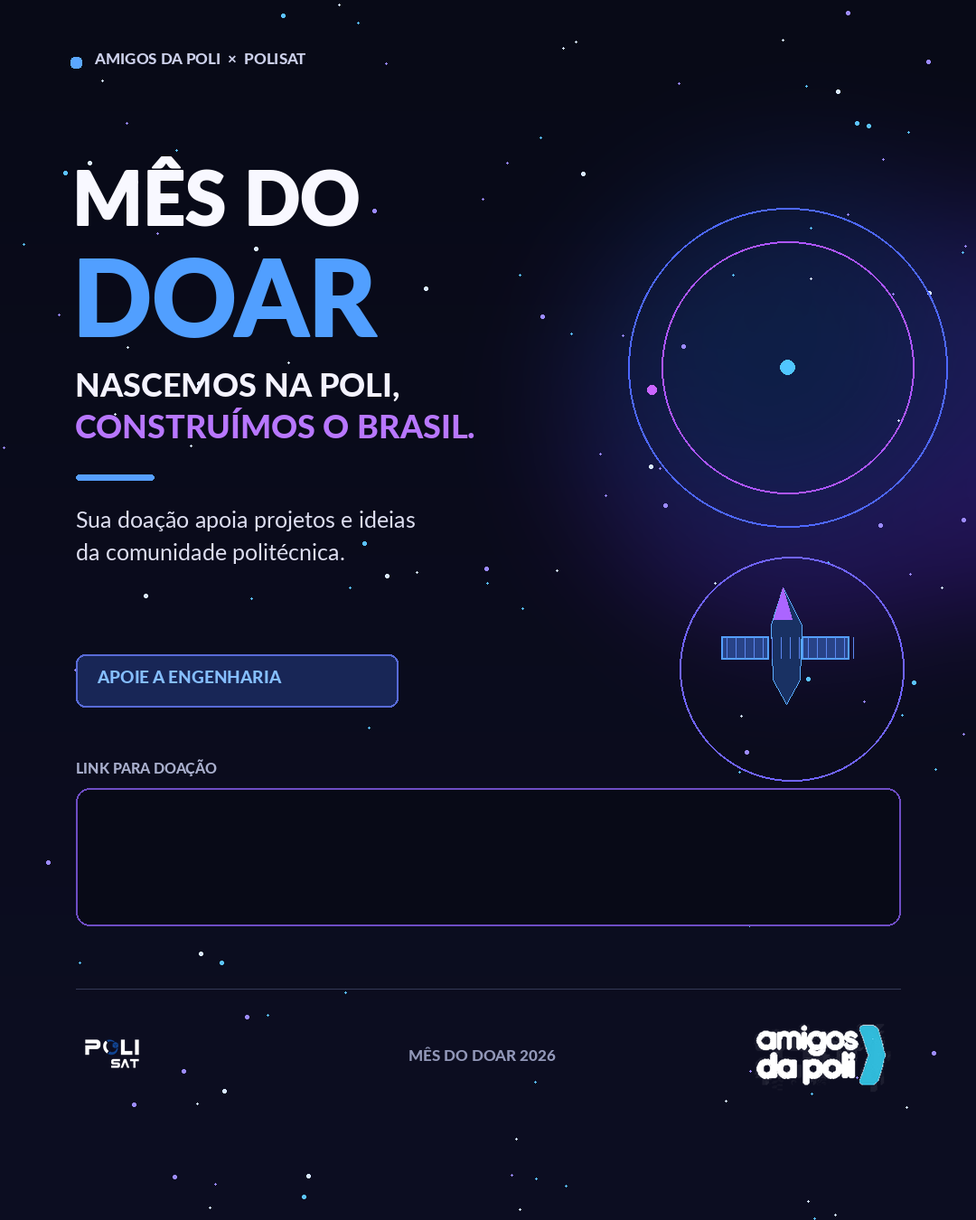
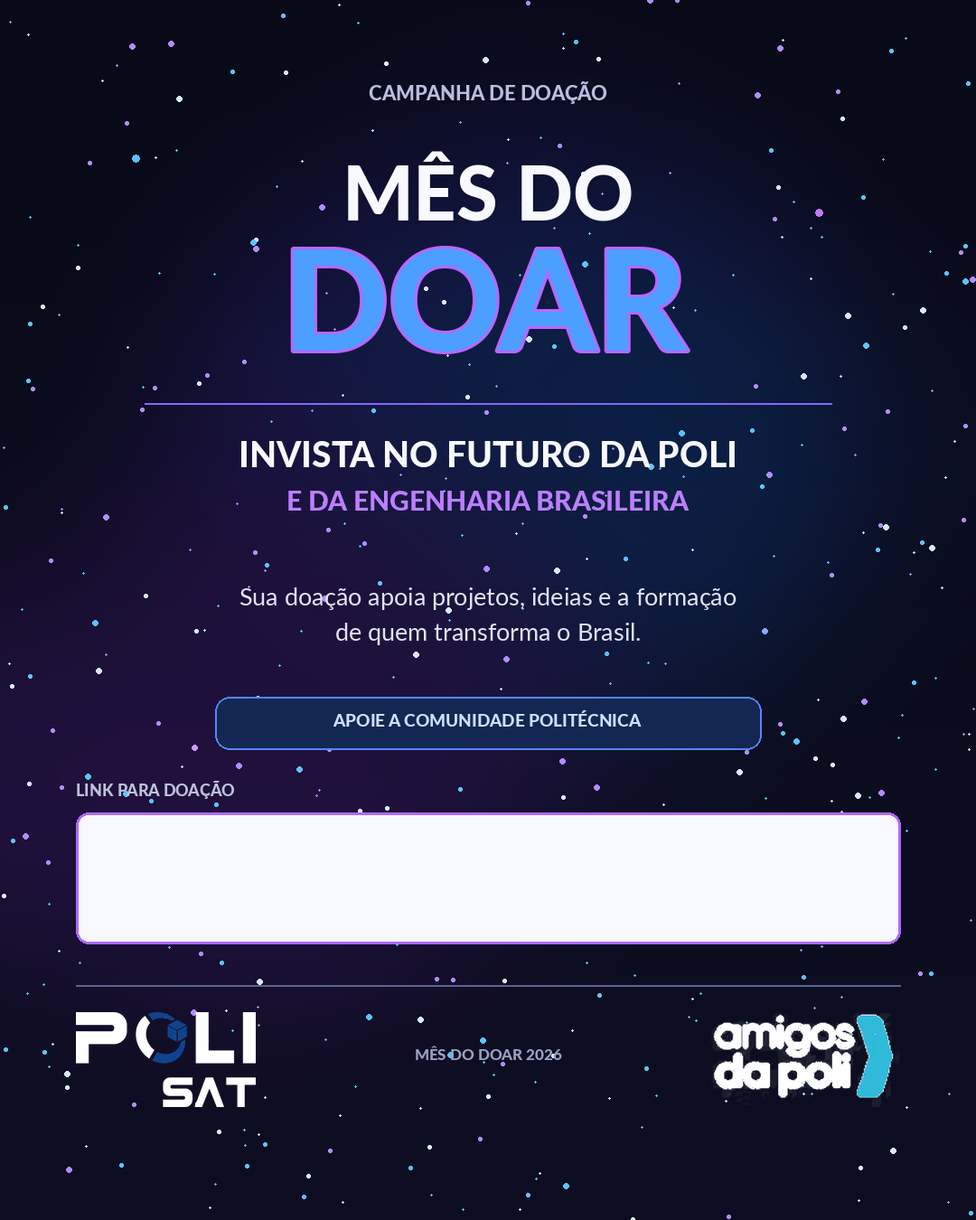
refatorando

diff --git a/index.html b/index.html
@@ -18,6 +18,20 @@
     .actions{flex-wrap:wrap}.download-disabled{opacity:.4;pointer-events:none}.edit-button{background:#171529;border:1px solid #5d4e91;color:#d9caff}.editor{width:min(1120px,96vw);max-width:none;max-height:94vh;padding:0;border:1px solid #403866;border-radius:18px;background:#0c0d17;color:#f4f4ff;box-shadow:0 24px 100px #000b}.editor::backdrop{background:#02030bcc;backdrop-filter:blur(5px)}.editor-head{display:flex;justify-content:space-between;align-items:center;padding:17px 21px;border-bottom:1px solid #29263f}.editor-head h2{font-size:16px;margin:0}.editor-head p{font-size:11px;color:#969bb5;margin:4px 0 0}.editor-close{border:1px solid #35334f;background:#171827;border-radius:8px;padding:7px 11px}.editor-grid{display:grid;grid-template-columns:minmax(0,1fr) 300px;gap:18px;padding:18px;max-height:calc(94vh - 70px);overflow:auto}.editor-stage{display:grid;place-items:center;align-content:center;background:#06070d;border:1px solid #25243a;border-radius:12px;padding:14px;min-height:280px}.editor-canvas{width:min(100%,540px);height:auto;aspect-ratio:4/5;border:1px solid #27263b;touch-action:none;cursor:crosshair}.editor-help{color:#8f94ab;font-size:10px;text-align:center;margin:9px 0 0}.editor-tools{display:flex;flex-direction:column;gap:13px}.tool-block{background:#121320;border:1px solid #29283e;border-radius:11px;padding:12px}.tool-title{font-size:11px;font-weight:750;color:#d9d3f6;margin-bottom:9px}.tool-row{display:flex;align-items:center;gap:8px}.tool-row input[type=range]{width:100%;accent-color:#8960ed}.tool-row input[type=color]{width:32px;height:28px;padding:0;border:0;background:transparent}.tool-row input[type=file]{width:100%;font-size:10px;color:#a9aec4}.tool-label{display:flex;justify-content:space-between;color:#9da2b8;font-size:10px;margin:8px 0 2px}.tool-button{border:1px solid #4a4475;background:#1c1a30;color:#e6e2fb;border-radius:8px;padding:8px 10px;font-size:11px;font-weight:650}.tool-button.primary{background:linear-gradient(100deg,#286cc3,#7046bd);border-color:#7362c9}.tool-button:disabled{opacity:.42;cursor:not-allowed}.editor-tools textarea{width:100%;resize:vertical;min-height:58px;border:1px solid #36354e;background:#090a12;color:#f4f4ff;border-radius:8px;padding:8px;font-family:inherit;font-size:12px;line-height:1.4}.editor-bottom{display:flex;justify-content:space-between;gap:8px;margin-top:auto;padding-top:3px}.editor-message{min-height:14px;color:#a7a0cf;font-size:10px}.image-choice{font-size:10px;color:#9fa5bc;margin-top:6px;overflow-wrap:anywhere}
     @media(max-width:930px){.layout{grid-template-columns:1fr}.preview{position:static;max-width:520px;width:100%;justify-self:center}.intro{align-items:flex-start;flex-direction:column}.date-range{min-width:0}.top{margin-bottom:36px}}@media(max-width:560px){.shell{padding:21px 14px 36px}.top{align-items:flex-start}.top-right .pill:last-child{display:none}.stats{gap:8px}.stat{padding:12px}.stat-value{font-size:19px}.table th,.table td{padding:10px 11px}.table th:nth-child(3),.table td:nth-child(3){display:none}.post-name{font-size:12px}.art-wrap{padding:12px 24px 18px}}
     @media(max-width:800px){.editor-grid{grid-template-columns:1fr;max-height:calc(94vh - 65px)}.editor-tools{max-width:560px;width:100%;justify-self:center}.editor-canvas{width:min(100%,430px)}}
+    .editor-help strong{color:#d9caff}.editor-canvas{cursor:grab}.editor-canvas:active{cursor:grabbing}
+    /* Identidade da arte da campanha: espaço, órbitas e azul/violeta PoliSat. */
+    :root{--bg:#080914;--panel:#0c0d19;--panel2:#111329;--line:#29294a;--blue:#4ea2ff;--purple:#b36cff}
+    body{background-color:#080914;background-image:radial-gradient(circle at 8% 17%,#9bcaffb0 1px,transparent 1.5px),radial-gradient(circle at 39% 28%,#a984ffbd 1px,transparent 1.5px),radial-gradient(circle at 82% 15%,#c8d8ffb0 1px,transparent 1.5px),radial-gradient(circle at 71% 46%,#77aaff9c 1px,transparent 1.5px),radial-gradient(circle at 22% 65%,#9680ffad 1px,transparent 1.5px),radial-gradient(circle at 93% 74%,#d4e0ffad 1px,transparent 1.5px),radial-gradient(ellipse at 82% 1%,#17123e 0,transparent 39%)}
+    .mark{position:relative;overflow:hidden;border-radius:50%;background:radial-gradient(circle,#4ea2ff 0 3px,transparent 4px),transparent;border:1px solid #557cff;box-shadow:0 0 0 5px #a34cff22,0 8px 28px #5c76ff35;font-size:0}
+    .mark:before,.mark:after{content:"";position:absolute;border:1px solid #ae65ff;border-radius:50%;inset:6px}
+    .mark:after{border-color:#438fff;inset:-5px}
+    .brand-sub{letter-spacing:.025em}.brand-name{letter-spacing:.01em}
+    .pill,.date-range,.stat,.card{background:rgba(9,10,20,.94);border-color:#302d53}
+    .intro h1{background:linear-gradient(100deg,#f4f5ff 0 37%,#4a9dff 38% 63%,#b166ff 90%);-webkit-background-clip:text;background-clip:text;color:transparent}
+    .eyebrow{color:#b478ff}.stat{box-shadow:inset 0 1px #ffffff08}.card{box-shadow:0 18px 55px #0003}
+    .card-head{background:linear-gradient(90deg,#121328aa,transparent)}.row.active td:first-child{box-shadow:inset 2px 0 #4ea2ff}
+    .btn-primary{background:linear-gradient(110deg,#398ff0,#9157df);box-shadow:0 7px 18px #665cff30}
+    .approval{border-color:#343148;background:linear-gradient(110deg,#12172b,#191329)}
   </style>
 </head>
 <body>
@@ -55,7 +69,7 @@
   <dialog class="editor" id="editor-dialog">
     <div class="editor-head"><div><h2>Editar imagem</h2><p>As alterações ficam neste navegador; baixe o PNG para compartilhar a versão final com a equipe.</p></div><button class="editor-close" id="editor-close">Fechar</button></div>
     <div class="editor-grid">
-      <div><div class="editor-stage"><canvas class="editor-canvas" id="editor-canvas" width="1080" height="1350" aria-label="Prévia editável do post"></canvas></div><p class="editor-help">Arraste o texto no canvas para reposicioná-lo.</p></div>
+      <div><div class="editor-stage"><canvas class="editor-canvas" id="editor-canvas" width="1080" height="1350" aria-label="Prévia editável do post"></canvas></div><p class="editor-help">Arraste a imagem para reenquadrar. Selecione e arraste um texto para reposicioná-lo.</p></div>
       <div class="editor-tools">
         <section class="tool-block"><div class="tool-title">Imagem e enquadramento</div><input id="image-upload" type="file" accept="image/png,image/jpeg,image/webp"><div class="image-choice" id="image-choice">Arte original do post</div>
           <label class="tool-label" for="zoom-range"><span>Zoom / corte</span><span id="zoom-value">100%</span></label><div class="tool-row"><input id="zoom-range" type="range" min="100" max="170" value="100"></div>
@@ -74,26 +88,32 @@
     const posts=[];const start=new Date(2026,10,9),end=new Date(2026,11,1);const weekdays=['domingo','segunda-feira','terça-feira','quarta-feira','quinta-feira','sexta-feira','sábado'];const months=['janeiro','fevereiro','março','abril','maio','junho','julho','agosto','setembro','outubro','novembro','dezembro'];
     for(let d=new Date(start);d<=end;d.setDate(d.getDate()+1)){if(d.getDay()===0||d.getDay()===6)continue;posts.push(new Date(d))}
     let currentArtData=null,selectedHasImage=true;const body=document.querySelector('#rows');posts.forEach((d,i)=>{const date=String(d.getDate()).padStart(2,'0')+'/'+String(d.getMonth()+1).padStart(2,'0');const tr=document.createElement('tr');tr.className='row'+(i===0?' active':'');tr.innerHTML=`<td><span class="ordinal">${date}</span><br><span class="weekday">${weekdays[d.getDay()]}</span></td><td><div class="post-name">${i===0?'Mês do Doar — Nascemos na Poli':'Post da campanha Mês do Doar'}</div><div class="post-kind">${i===0?'Convite à doação':'Conteúdo a definir'}</div></td><td><span class="status">${i===0?'Exemplo':'A definir'}</span></td>`;tr.addEventListener('click',()=>{document.querySelectorAll('.row').forEach(x=>x.classList.remove('active'));tr.classList.add('active');document.querySelector('#selected-title').textContent=i===0?'Mês do Doar — Nascemos na Poli':'Post da campanha Mês do Doar';document.querySelector('#selected-date').textContent=`${weekdays[d.getDay()].replace(/^./,c=>c.toUpperCase())}, ${String(d.getDate()).padStart(2,'0')} de ${months[d.getMonth()]} de ${d.getFullYear()}`;const imageActions=i===0;selectedHasImage=imageActions;document.querySelector('#art').style.opacity=imageActions?'1':'.42';document.querySelector('#edit-open').disabled=!imageActions;document.querySelector('#copy').disabled=!imageActions;document.querySelector('#download').classList.toggle('download-disabled',!imageActions);document.querySelector('#download').setAttribute('aria-disabled',String(!imageActions));if(imageActions)showArt(currentArtData)});body.appendChild(tr)}
+    );
     document.querySelector('#stat-total').textContent=posts.length;
     const caption='Nascemos na Poli, construímos o Brasil. Sua doação apoia projetos e ideias da comunidade politécnica. Faça parte dessa construção. 💙💜\n\nDoe: https://doe.amigosdapoli.com.br/7coquetelderesultados';
     document.querySelector('#copy').addEventListener('click',async()=>{await navigator.clipboard.writeText(caption);document.querySelector('#copy').textContent='Legenda copiada ✓';setTimeout(()=>document.querySelector('#copy').textContent='Copiar legenda',1600)});
     const toast=(message)=>{const el=document.querySelector('#app-toast');el.textContent=message;el.classList.add('show');setTimeout(()=>el.classList.remove('show'),5000)};
     const DB_NAME='mes-doar-artes',STORE_NAME='imagens',ART_KEY='arte-2026-11-09';
-    function openArtDB(){return new Promise((resolve,reject)=>{const request=indexedDB.open(DB_NAME,1);request.onupgradeneeded=()=>request.result.createObjectStore(STORE_NAME);request.onsuccess=()=>resolve(request.result);request.onerror=()=>reject(request.error)})}
-    async function readSavedArt(){const db=await openArtDB();return new Promise((resolve,reject)=>{const request=db.transaction(STORE_NAME,'readonly').objectStore(STORE_NAME).get(ART_KEY);request.onsuccess=()=>resolve(request.result||null);request.onerror=()=>reject(request.error)})}
-    async function writeSavedArt(data){const db=await openArtDB();return new Promise((resolve,reject)=>{const transaction=db.transaction(STORE_NAME,'readwrite');transaction.objectStore(STORE_NAME).put(data,ART_KEY);transaction.oncomplete=()=>resolve();transaction.onerror=()=>reject(transaction.error)})}
+    function openArtDB(){return new Promise((resolve,reject)=>{if(!('indexedDB'in window)){reject(new Error('Armazenamento local indisponível'));return}const request=indexedDB.open(DB_NAME,1);request.onupgradeneeded=()=>{if(!request.result.objectStoreNames.contains(STORE_NAME))request.result.createObjectStore(STORE_NAME)};request.onsuccess=()=>resolve(request.result);request.onerror=()=>reject(request.error||new Error('Falha ao abrir armazenamento'));request.onblocked=()=>reject(new Error('Armazenamento local bloqueado'))})}
+    async function readSavedArt(){try{const db=await openArtDB();return await new Promise((resolve,reject)=>{const request=db.transaction(STORE_NAME,'readonly').objectStore(STORE_NAME).get(ART_KEY);request.onsuccess=()=>resolve(request.result||null);request.onerror=()=>reject(request.error||new Error('Falha ao carregar edição'));db.close()})}catch(error){console.warn('Não foi possível acessar a edição salva:',error);return null}}
+    async function writeSavedArt(data){const db=await openArtDB();return new Promise((resolve,reject)=>{const transaction=db.transaction(STORE_NAME,'readwrite');transaction.objectStore(STORE_NAME).put(data,ART_KEY);transaction.oncomplete=()=>{db.close();resolve()};transaction.onerror=()=>{db.close();reject(transaction.error||new Error('Falha ao salvar edição'))};transaction.onabort=()=>{db.close();reject(transaction.error||new Error('Salvamento cancelado'))}})}
     function showArt(data){currentArtData=data;if(!selectedHasImage)return;const src=data||'posts/exemplo-mes-doar.png';document.querySelector('#art').src=src;const link=document.querySelector('#download');link.href=src;link.download=data?'2026-11-09-segunda-feira-editado.png':'2026-11-09-segunda-feira.png'}
     async function loadSavedArt(){try{const saved=await readSavedArt();if(saved)showArt(saved)}catch{toast('Não foi possível carregar a arte salva neste navegador.')}}
-    const editor=document.querySelector('#editor-dialog'),canvas=document.querySelector('#editor-canvas'),ctx=canvas.getContext('2d'),editorMessage=document.querySelector('#editor-message');let editorImage=null,editorFileUrl='',textLayers=[],selectedLayer=-1,placingText=false,dragLayer=-1,dragOffset={x:0,y:0};
+    const editor=document.querySelector('#editor-dialog'),canvas=document.querySelector('#editor-canvas'),ctx=canvas.getContext('2d'),editorMessage=document.querySelector('#editor-message');let editorImage=null,editorFileUrl='',textLayers=[],selectedLayer=-1,placingText=false,dragLayer=-1,dragOffset={x:0,y:0},draggingImage=false,imageOffset={x:0,y:0},imageDragOrigin={x:0,y:0},imagePointerOrigin={x:0,y:0},editorNeedsBranding=false,adpLogo=null,polisatLogo=null;
     const originalImage='posts/exemplo-mes-doar.png';
+    const campaignLogoPaths=['logo_para_colocar_nas_imagens_geradas/logo_adp/logo-amigos-da-poli.svg','logo_para_colocar_nas_imagens_geradas/logo_polisat/logo_branco_svg.svg'];
     const sliderIds=['zoom','brightness','contrast','saturation'];
     function setEditorMessage(text){editorMessage.textContent=text}
     function loadEditorImage(src){return new Promise((resolve,reject)=>{const image=new Image();image.onload=()=>{editorImage=image;resolve()};image.onerror=reject;image.src=src})}
+    function loadCampaignLogo(src){return new Promise((resolve,reject)=>{const image=new Image();image.onload=()=>resolve(image);image.onerror=()=>reject(new Error('Falha ao carregar uma das logos'));image.src=src})}
+    async function loadCampaignLogos(){if(!adpLogo||!polisatLogo)[adpLogo,polisatLogo]=await Promise.all(campaignLogoPaths.map(loadCampaignLogo))}
+    function drawContainedLogo(image,x,y,maxWidth,maxHeight){const scale=Math.min(maxWidth/image.width,maxHeight/image.height);const width=image.width*scale,height=image.height*scale;ctx.drawImage(image,x+(maxWidth-width)/2,y+(maxHeight-height)/2,width,height)}
+    function drawCampaignBranding(){if(!adpLogo||!polisatLogo)throw new Error('As logos da campanha não foram carregadas.');ctx.save();ctx.fillStyle='#080914';ctx.fillRect(0,850,canvas.width,500);ctx.font='700 18px Arial';ctx.textAlign='left';ctx.textBaseline='top';ctx.fillStyle='#c2c6de';ctx.fillText('LINK PARA DOAÇÃO',84,866);ctx.fillStyle='#f8f8ff';ctx.fillRect(84,899,912,145);ctx.strokeStyle='#ae68ff';ctx.lineWidth=3;ctx.strokeRect(84,899,912,145);ctx.strokeStyle='#5c648d';ctx.lineWidth=2;ctx.beginPath();ctx.moveTo(84,1090);ctx.lineTo(996,1090);ctx.stroke();drawContainedLogo(polisatLogo,84,1120,245,105);drawContainedLogo(adpLogo,751,1120,245,105);ctx.font='700 17px Arial';ctx.textAlign='center';ctx.textBaseline='top';ctx.fillStyle='#9ba2c1';ctx.fillText('MÊS DO DOAR 2026',540,1159);ctx.restore()}
     function getEditorPoint(event){const rect=canvas.getBoundingClientRect();return{x:(event.clientX-rect.left)*canvas.width/rect.width,y:(event.clientY-rect.top)*canvas.height/rect.height}}
     function layerBounds(layer){ctx.font=`700 ${layer.size}px Arial`;const lines=layer.text.split('\n');const width=Math.max(...lines.map(line=>ctx.measureText(line).width),1);return{x:layer.x-width/2-14,y:layer.y-8,width:width+28,height:lines.length*layer.size*1.22+16}}
-    function redrawEditor(){if(!editorImage)return;const zoom=Number(document.querySelector('#zoom-range').value)/100;const scale=Math.max(canvas.width/editorImage.width,canvas.height/editorImage.height)*zoom;const width=editorImage.width*scale,height=editorImage.height*scale;ctx.clearRect(0,0,canvas.width,canvas.height);ctx.save();ctx.filter=`brightness(${document.querySelector('#brightness-range').value}%) contrast(${document.querySelector('#contrast-range').value}%) saturate(${document.querySelector('#saturation-range').value}%)`;ctx.drawImage(editorImage,(canvas.width-width)/2,(canvas.height-height)/2,width,height);ctx.restore();textLayers.forEach((layer,index)=>{ctx.save();ctx.font=`700 ${layer.size}px Arial`;ctx.textAlign='center';ctx.textBaseline='top';ctx.lineJoin='round';const lines=layer.text.split('\n');lines.forEach((line,lineIndex)=>{const y=layer.y+lineIndex*layer.size*1.22;ctx.strokeStyle='rgba(5,6,14,.9)';ctx.lineWidth=Math.max(3,layer.size*.12);ctx.strokeText(line,layer.x,y);ctx.fillStyle=layer.color;ctx.fillText(line,layer.x,y)});if(index===selectedLayer){const bounds=layerBounds(layer);ctx.setLineDash([8,6]);ctx.strokeStyle='#a88cff';ctx.lineWidth=3;ctx.strokeRect(bounds.x,bounds.y,bounds.width,bounds.height)}ctx.restore()})}
+    function redrawEditor(showSelection=true){if(!editorImage)return;const zoom=Number(document.querySelector('#zoom-range').value)/100;const scale=Math.max(canvas.width/editorImage.width,canvas.height/editorImage.height)*zoom;const width=editorImage.width*scale,height=editorImage.height*scale;ctx.clearRect(0,0,canvas.width,canvas.height);ctx.save();ctx.filter=`brightness(${document.querySelector('#brightness-range').value}%) contrast(${document.querySelector('#contrast-range').value}%) saturate(${document.querySelector('#saturation-range').value}%)`;ctx.drawImage(editorImage,(canvas.width-width)/2+imageOffset.x,(canvas.height-height)/2+imageOffset.y,width,height);ctx.restore();textLayers.forEach((layer,index)=>{ctx.save();ctx.font=`700 ${layer.size}px Arial`;ctx.textAlign='center';ctx.textBaseline='top';ctx.lineJoin='round';const lines=layer.text.split('\n');lines.forEach((line,lineIndex)=>{const y=layer.y+lineIndex*layer.size*1.22;ctx.strokeStyle='rgba(5,6,14,.9)';ctx.lineWidth=Math.max(3,layer.size*.12);ctx.strokeText(line,layer.x,y);ctx.fillStyle=layer.color;ctx.fillText(line,layer.x,y)});if(showSelection&&index===selectedLayer){const bounds=layerBounds(layer);ctx.setLineDash([8,6]);ctx.strokeStyle='#a88cff';ctx.lineWidth=3;ctx.strokeRect(bounds.x,bounds.y,bounds.width,bounds.height)}ctx.restore()});if(editorNeedsBranding)drawCampaignBranding()}
     function selectTextLayer(index){selectedLayer=index;const textarea=document.querySelector('#text-input'),remove=document.querySelector('#delete-text'),button=document.querySelector('#place-text');if(index>=0){const layer=textLayers[index];textarea.value=layer.text;document.querySelector('#font-size').value=layer.size;document.querySelector('#font-size-value').textContent=layer.size+' px';document.querySelector('#text-color').value=layer.color;remove.disabled=false;button.textContent='Atualizar texto'}else{textarea.value='';remove.disabled=true;button.textContent=placingText?'Clique na imagem…':'Colocar texto'}redrawEditor()}
-    document.querySelector('#edit-open').addEventListener('click',async()=>{if(!selectedHasImage)return;try{textLayers=[];placingText=false;selectTextLayer(-1);editorFileUrl='';for(const id of sliderIds){const input=document.querySelector('#'+id+'-range');input.value=100;document.querySelector('#'+id+'-value').textContent='100%'}const saved=await readSavedArt();const imageUrl=saved||originalImage;document.querySelector('#image-choice').textContent=saved?'Última edição salva':'Arte original do post';await loadEditorImage(saved?imageUrl:imageUrl+'?v='+Date.now());redrawEditor();setEditorMessage('Alterações ainda não salvas.');editor.showModal()}catch{toast('Não foi possível abrir a imagem no editor.')}});
+    document.querySelector('#edit-open').addEventListener('click',async()=>{if(!selectedHasImage)return;const button=document.querySelector('#edit-open');button.disabled=true;try{textLayers=[];placingText=false;draggingImage=false;imageOffset={x:0,y:0};editorNeedsBranding=false;selectTextLayer(-1);if(editorFileUrl){URL.revokeObjectURL(editorFileUrl);editorFileUrl=''}for(const id of sliderIds){const input=document.querySelector('#'+id+'-range');input.value=100;document.querySelector('#'+id+'-value').textContent='100%'}const saved=await readSavedArt();const imageUrl=saved||originalImage;document.querySelector('#image-choice').textContent=saved?'Última edição salva':'Arte original do post';await loadEditorImage(saved?imageUrl:imageUrl+'?v='+Date.now());redrawEditor();setEditorMessage(saved?'Edição salva carregada.':'Imagem pronta para editar.');editor.showModal()}catch(error){console.error('Falha ao abrir o editor:',error);toast('Não foi possível carregar a imagem. Confira se posts/exemplo-mes-doar.png está disponível.')}finally{button.disabled=false}});
     document.querySelector('#editor-close').addEventListener('click',()=>editor.close());
     editor.addEventListener('click',event=>{if(event.target===editor)editor.close()});
     sliderIds.forEach(id=>{const input=document.querySelector('#'+id+'-range');input.addEventListener('input',()=>{document.querySelector('#'+id+'-value').textContent=input.value+'%';redrawEditor()})});
@@ -101,13 +121,13 @@
     document.querySelector('#text-color').addEventListener('input',event=>{if(selectedLayer>=0){textLayers[selectedLayer].color=event.target.value;redrawEditor()}});
     document.querySelector('#place-text').addEventListener('click',()=>{const text=document.querySelector('#text-input').value.trim();if(selectedLayer>=0){if(!text){setEditorMessage('Digite o texto antes de aplicar.');return}textLayers[selectedLayer].text=text;textLayers[selectedLayer].size=Number(document.querySelector('#font-size').value);textLayers[selectedLayer].color=document.querySelector('#text-color').value;setEditorMessage('Texto atualizado.');redrawEditor();return}if(!text){setEditorMessage('Escreva o texto e depois clique em Colocar texto.');return}placingText=true;document.querySelector('#place-text').textContent='Clique na imagem…';setEditorMessage('Clique na arte onde o texto deve começar.');canvas.style.cursor='copy'});
     document.querySelector('#delete-text').addEventListener('click',()=>{if(selectedLayer<0)return;textLayers.splice(selectedLayer,1);placingText=false;selectTextLayer(-1);setEditorMessage('Texto removido.')});
-    canvas.addEventListener('pointerdown',event=>{if(!editorImage)return;const point=getEditorPoint(event);if(placingText){const text=document.querySelector('#text-input').value.trim();if(!text)return;textLayers.push({x:point.x,y:point.y,text,color:document.querySelector('#text-color').value,size:Number(document.querySelector('#font-size').value)});placingText=false;canvas.style.cursor='crosshair';selectTextLayer(textLayers.length-1);setEditorMessage('Texto adicionado. Arraste para reposicionar.');return}let found=-1;for(let i=textLayers.length-1;i>=0;i--){const b=layerBounds(textLayers[i]);if(point.x>=b.x&&point.x<=b.x+b.width&&point.y>=b.y&&point.y<=b.y+b.height){found=i;break}}selectTextLayer(found);if(found>=0){dragLayer=found;dragOffset={x:point.x-textLayers[found].x,y:point.y-textLayers[found].y};canvas.setPointerCapture(event.pointerId)}});
-    canvas.addEventListener('pointermove',event=>{if(dragLayer<0)return;const point=getEditorPoint(event);textLayers[dragLayer].x=point.x-dragOffset.x;textLayers[dragLayer].y=point.y-dragOffset.y;redrawEditor()});
-    canvas.addEventListener('pointerup',()=>{dragLayer=-1});
-    document.querySelector('#image-upload').addEventListener('change',async event=>{const file=event.target.files[0];if(!file)return;if(editorFileUrl)URL.revokeObjectURL(editorFileUrl);editorFileUrl=URL.createObjectURL(file);try{await loadEditorImage(editorFileUrl);document.querySelector('#image-choice').textContent=file.name;setEditorMessage('Imagem substituída na prévia. Salve para aplicar.');redrawEditor()}catch{setEditorMessage('Não foi possível abrir esse arquivo.')}});
-    document.querySelector('#restore-image').addEventListener('click',async()=>{try{document.querySelector('#image-upload').value='';if(editorFileUrl)URL.revokeObjectURL(editorFileUrl);editorFileUrl='';await loadEditorImage(originalImage+'?v='+Date.now());textLayers=[];for(const id of sliderIds){const input=document.querySelector('#'+id+'-range');input.value=100;document.querySelector('#'+id+'-value').textContent='100%'}selectTextLayer(-1);document.querySelector('#image-choice').textContent='Arte original do post';setEditorMessage('Original restaurado na prévia. Salve para substituir a edição salva.')}catch{setEditorMessage('Não foi possível restaurar a arte original.')}});
-    document.querySelector('#download-edited').addEventListener('click',()=>{const a=document.createElement('a');a.href=canvas.toDataURL('image/png');a.download='2026-11-09-mes-do-doar-editado.png';a.click()});
-    document.querySelector('#save-edited').addEventListener('click',async()=>{const button=document.querySelector('#save-edited');button.disabled=true;button.textContent='Salvando…';try{const data=canvas.toDataURL('image/png');await writeSavedArt(data);showArt(data);setEditorMessage('Edição salva neste navegador. Baixe o PNG para enviar ao restante da equipe.');editor.close();toast('Imagem editada e salva neste navegador.')}catch(error){setEditorMessage('Não foi possível salvar. Tente baixar o PNG: '+error.message)}finally{button.disabled=false;button.textContent='Salvar edição'}});
+    canvas.addEventListener('pointerdown',event=>{if(!editorImage)return;const point=getEditorPoint(event);if(placingText){const text=document.querySelector('#text-input').value.trim();if(!text)return;textLayers.push({x:point.x,y:point.y,text,color:document.querySelector('#text-color').value,size:Number(document.querySelector('#font-size').value)});placingText=false;canvas.style.cursor='crosshair';selectTextLayer(textLayers.length-1);setEditorMessage('Texto adicionado. Arraste para reposicionar.');return}let found=-1;for(let i=textLayers.length-1;i>=0;i--){const b=layerBounds(textLayers[i]);if(point.x>=b.x&&point.x<=b.x+b.width&&point.y>=b.y&&point.y<=b.y+b.height){found=i;break}}selectTextLayer(found);if(found>=0){dragLayer=found;dragOffset={x:point.x-textLayers[found].x,y:point.y-textLayers[found].y}}else{draggingImage=true;imageDragOrigin={...imageOffset};imagePointerOrigin=point}canvas.setPointerCapture(event.pointerId)});
+    canvas.addEventListener('pointermove',event=>{const point=getEditorPoint(event);if(dragLayer>=0){textLayers[dragLayer].x=point.x-dragOffset.x;textLayers[dragLayer].y=point.y-dragOffset.y;redrawEditor();return}if(draggingImage){imageOffset={x:imageDragOrigin.x+point.x-imagePointerOrigin.x,y:imageDragOrigin.y+point.y-imagePointerOrigin.y};redrawEditor()}});
+    canvas.addEventListener('pointerup',()=>{dragLayer=-1;draggingImage=false});canvas.addEventListener('pointercancel',()=>{dragLayer=-1;draggingImage=false});
+    document.querySelector('#image-upload').addEventListener('change',async event=>{const file=event.target.files[0];if(!file)return;if(editorFileUrl)URL.revokeObjectURL(editorFileUrl);editorFileUrl=URL.createObjectURL(file);try{await loadEditorImage(editorFileUrl);editorNeedsBranding=true;await loadCampaignLogos();imageOffset={x:0,y:0};document.querySelector('#image-choice').textContent=file.name;setEditorMessage('Imagem substituída. Reposicione, ajuste e adicione texto; as logos e a área de doação serão mantidas.');redrawEditor()}catch(error){setEditorMessage('Não foi possível abrir a imagem ou carregar as logos da campanha. '+error.message)}});
+    document.querySelector('#restore-image').addEventListener('click',async()=>{try{document.querySelector('#image-upload').value='';if(editorFileUrl)URL.revokeObjectURL(editorFileUrl);editorFileUrl='';editorNeedsBranding=false;imageOffset={x:0,y:0};await loadEditorImage(originalImage+'?v='+Date.now());textLayers=[];for(const id of sliderIds){const input=document.querySelector('#'+id+'-range');input.value=100;document.querySelector('#'+id+'-value').textContent='100%'}selectTextLayer(-1);document.querySelector('#image-choice').textContent='Arte original do post';setEditorMessage('Original restaurado na prévia. Salve para substituir a edição salva.')}catch{setEditorMessage('Não foi possível restaurar a arte original.')}});
+    document.querySelector('#download-edited').addEventListener('click',()=>{redrawEditor(false);const a=document.createElement('a');a.href=canvas.toDataURL('image/png');a.download='2026-11-09-mes-do-doar-editado.png';a.click();redrawEditor()});
+    document.querySelector('#save-edited').addEventListener('click',async()=>{const button=document.querySelector('#save-edited');button.disabled=true;button.textContent='Salvando…';try{redrawEditor(false);const data=canvas.toDataURL('image/png');await writeSavedArt(data);showArt(data);setEditorMessage('Edição salva neste navegador. Baixe o PNG para enviar ao restante da equipe.');editor.close();toast('Imagem editada e salva neste navegador.')}catch(error){setEditorMessage('Não foi possível salvar neste navegador. Use Baixar PNG para guardar a edição. '+error.message)}finally{redrawEditor();button.disabled=false;button.textContent='Salvar edição'}});
     loadSavedArt();
   </script>
 </body>

diff --git a/scripts/generate_sample.py b/scripts/generate_sample.py
@@ -1,0 +1,84 @@
+from pathlib import Path
+import random
+
+from PIL import Image, ImageDraw, ImageFilter, ImageFont
+
+
+ROOT = Path(__file__).resolve().parents[1]
+OUT = ROOT / "posts" / "exemplo-mes-doar.png"
+FONT_BOLD = "/usr/share/fonts/truetype/lato/Lato-Heavy.ttf"
+FONT_REGULAR = "/usr/share/fonts/truetype/lato/Lato-Regular.ttf"
+ADP_LOGO = ROOT / "logo_para_colocar_nas_imagens_geradas/logo_adp/logo-adp-branco.png"
+POLISAT_LOGO = ROOT / "logo_para_colocar_nas_imagens_geradas/logo_polisat/logo_branco_transparente.png"
+
+
+def font(size, bold=False):
+    path = FONT_BOLD if bold else FONT_REGULAR
+    return ImageFont.truetype(path, size)
+
+
+def centered_text(draw, text, y, text_font, fill, stroke_width=0, stroke_fill=None):
+    bounds = draw.textbbox((0, 0), text, font=text_font, stroke_width=stroke_width)
+    x = (1080 - (bounds[2] - bounds[0])) / 2
+    draw.text((x, y), text, font=text_font, fill=fill, stroke_width=stroke_width, stroke_fill=stroke_fill)
+
+
+def prepare_logo(path, size):
+    logo = Image.open(path).convert("RGBA")
+    bounds = logo.getchannel("A").getbbox()
+    if bounds:
+        logo = logo.crop(bounds)
+    logo.thumbnail(size, Image.Resampling.LANCZOS)
+    return logo
+
+
+def main():
+    random.seed(19)
+    w, h = 1080, 1350
+    img = Image.new("RGBA", (w, h), (8, 10, 22, 255))
+    pix = img.load()
+    for y in range(h):
+        t = y / h
+        c = (int(8 + t * 5), int(10 + t * 4), int(23 + t * 11))
+        for x in range(w):
+            pix[x, y] = (*c, 255)
+    glow = Image.new("RGBA", img.size, (0, 0, 0, 0))
+    gd = ImageDraw.Draw(glow)
+    gd.ellipse((120, 80, 1040, 870), fill=(62, 38, 180, 68))
+    gd.ellipse((350, 240, 1010, 850), fill=(16, 105, 220, 54))
+    gd.ellipse((-100, 520, 670, 1190), fill=(126, 35, 198, 46))
+    img = Image.alpha_composite(img, glow.filter(ImageFilter.GaussianBlur(110)))
+    d = ImageDraw.Draw(img)
+    for _ in range(420):
+        x, y = random.randrange(w), random.randrange(h)
+        radius = random.choice((1, 1, 1, 2, 2, 3))
+        color = random.choice(((216, 231, 255, 190), (177, 139, 255, 190), (91, 194, 255, 185)))
+        d.ellipse((x-radius, y-radius, x+radius, y+radius), fill=color)
+    for x, y, radius, color in ((150, 175, 4, (92, 190, 255, 255)), (906, 235, 4, (190, 122, 255, 255)), (846, 698, 3, (131, 173, 255, 255)), (215, 827, 3, (207, 151, 255, 255))):
+        d.ellipse((x-radius, y-radius, x+radius, y+radius), fill=color)
+
+    centered_text(d, "CAMPANHA DE DOAÇÃO", 93, font(22, True), (186, 190, 222, 255))
+    centered_text(d, "MÊS DO", 177, font(83, True), (248, 248, 255, 255))
+    centered_text(d, "DOAR", 264, font(154, True), (76, 158, 255, 255), 3, (185, 102, 255, 255))
+    d.line((160, 446, 920, 446), fill=(130, 105, 255, 190), width=2)
+    centered_text(d, "INVISTA NO FUTURO DA POLI", 485, font(39, True), (248, 248, 255, 255))
+    centered_text(d, "E DA ENGENHARIA BRASILEIRA", 540, font(30, True), (188, 126, 255, 255))
+    centered_text(d, "Sua doação apoia projetos, ideias e a formação", 648, font(27), (225, 228, 245, 255))
+    centered_text(d, "de quem transforma o Brasil.", 687, font(27), (225, 228, 245, 255))
+    d.rounded_rectangle((238, 771, 842, 829), radius=16, fill=(20, 39, 82, 245), outline=(85, 133, 255, 255), width=2)
+    centered_text(d, "APOIE A COMUNIDADE POLITÉCNICA", 788, font(19, True), (208, 222, 255, 255))
+
+    d.text((84, 866), "LINK PARA DOAÇÃO", font=font(18, True), fill=(190, 194, 218, 255))
+    d.rounded_rectangle((84, 899, 996, 1044), radius=14, fill=(248, 248, 255, 255), outline=(174, 104, 255, 255), width=3)
+    d.line((84, 1090, 996, 1090), fill=(92, 101, 145, 210), width=2)
+
+    polisat = prepare_logo(POLISAT_LOGO, (245, 105))
+    adp = prepare_logo(ADP_LOGO, (245, 105))
+    img.alpha_composite(polisat, (84, 1120 + (105 - polisat.height) // 2))
+    img.alpha_composite(adp, (996 - adp.width, 1120 + (105 - adp.height) // 2))
+    centered_text(d, "MÊS DO DOAR 2026", 1159, font(17, True), (155, 162, 193, 255))
+    img.convert("RGB").save(OUT, quality=95)
+
+
+if __name__ == "__main__":
+    main()

diff --git a/README.md b/README.md
@@ -8,12 +8,12 @@ O workflow em `.github/workflows/pages.yml` publica o site sempre que há um pus
 
 O endereço esperado para este repositório é `https://somarianoso.github.io/mes_de_doar/`.
 
-O workflow envia ao Pages apenas `index.html` e a arte de exemplo. As imagens base e outros arquivos locais não são incluídos no site.
+O workflow envia ao Pages a página, a arte de exemplo e as duas logos em SVG usadas pelo editor. As imagens base e os demais arquivos locais não são incluídos no site.
 
 ## Como usar
 
 - Escolha um post no calendário.
-- No exemplo gerado, use **Editar imagem** para trocar a imagem, ajustar zoom, brilho, contraste e saturação ou inserir texto.
+- No exemplo gerado, use **Editar imagem** para trocar a imagem, arrastá-la para reenquadrar, ajustar zoom, brilho, contraste e saturação ou inserir e reposicionar texto. Ao trocar a imagem, as logos da PoliSat e do Amigos da Poli e o espaço vazio para o link de doação são aplicados automaticamente.
 - **Salvar edição** guarda a versão editada neste navegador. Use **Baixar imagem** para obter o PNG final e publicar no Instagram manualmente.
 - **Copiar legenda** copia o texto sugerido.
 
